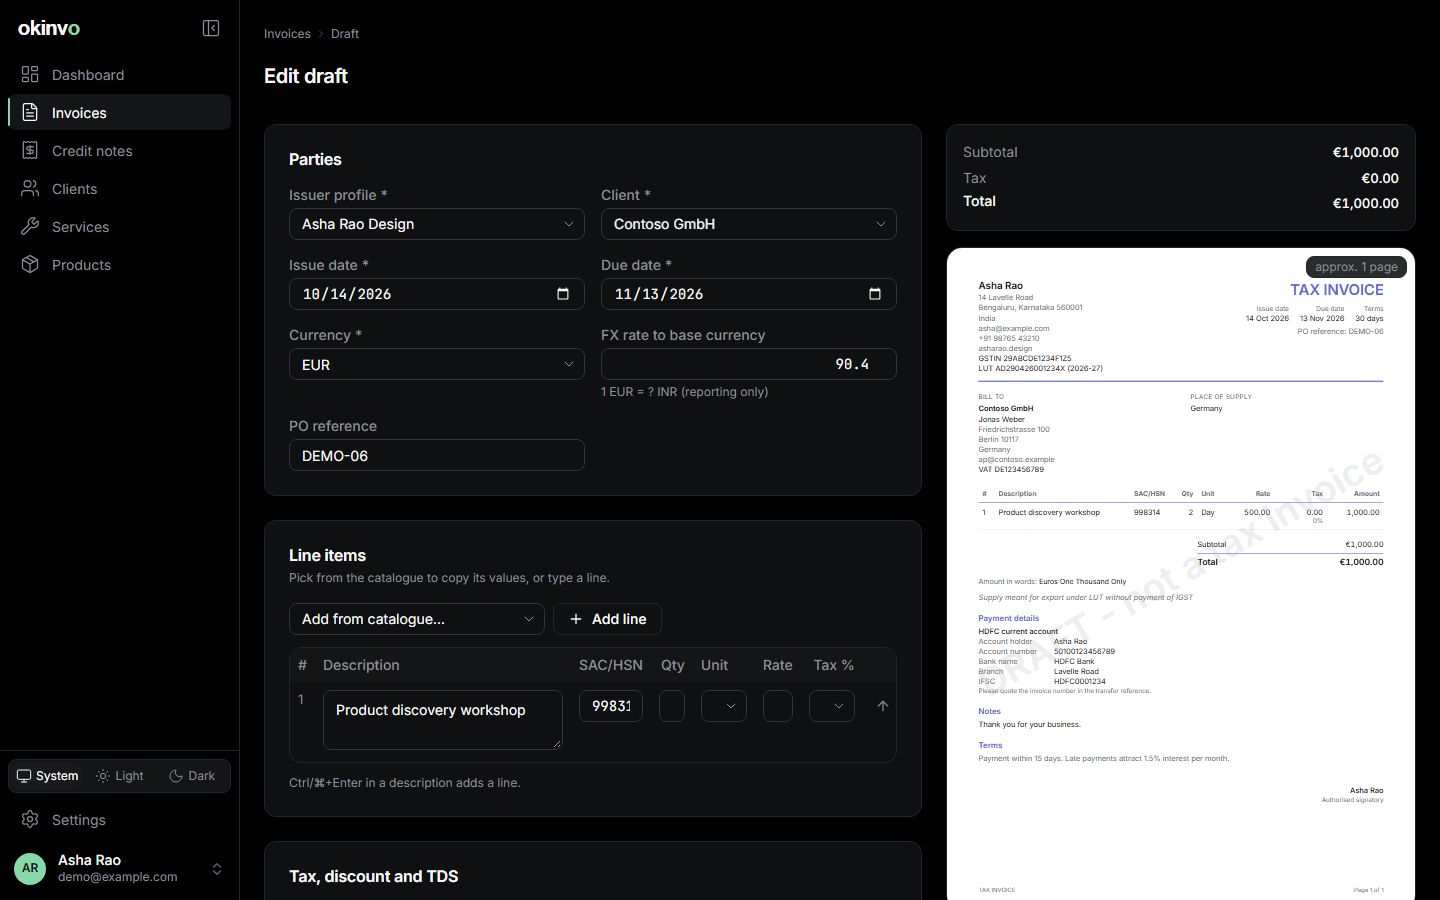
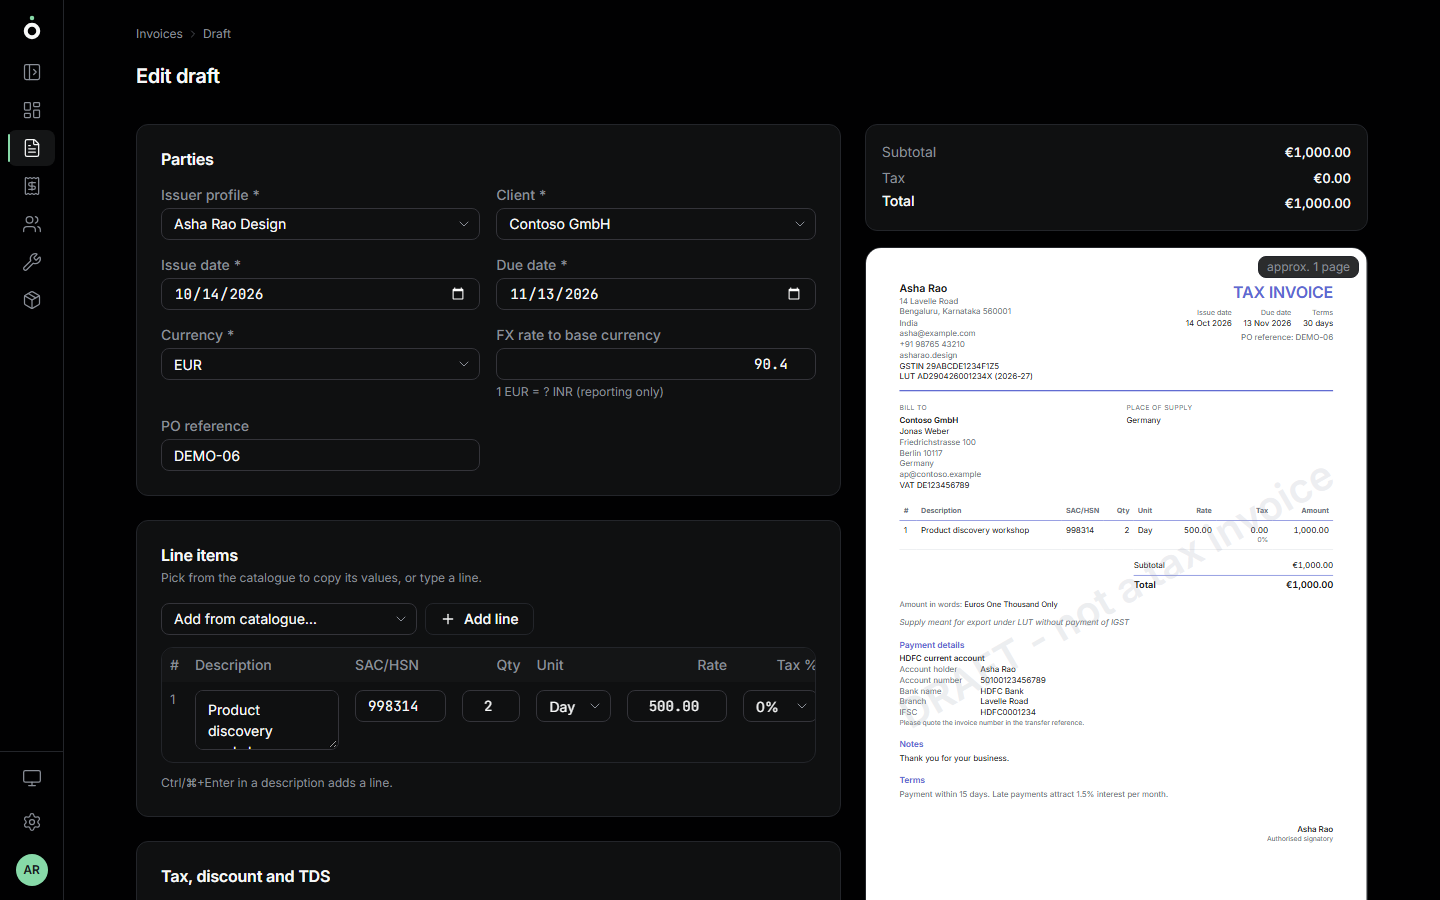
fix(builder): size the line-item columns so the table fits beside the preview
Fixed column widths that show a six-digit SAC code, a unit name, a rate and a tax rate in
full, with a 48rem table minimum; the docs screenshot of the builder is taken with the sidebar
collapsed, where the table fits at 1440 px without a scrollbar.

diff --git a/scripts/docs-screenshots.ts b/scripts/docs-screenshots.ts
@@ -78,6 +78,7 @@ async function newContext(
   browser: Browser,
   theme: Theme,
   mobile: boolean,
+  o: { sidebar?: "collapsed" } = {},
 ): Promise<BrowserContext> {
   const context = await browser.newContext({
     baseURL: ORIGIN,
@@ -92,6 +93,7 @@ async function newContext(
   await context.addCookies([
     { name: "okinvo.cookie-notice", value: "1", url: ORIGIN },
     { name: "okinvo.theme", value: theme, url: ORIGIN },
+    ...(o.sidebar ? [{ name: "okinvo.sidebar", value: o.sidebar, url: ORIGIN }] : []),
   ]);
   return context;
 }
@@ -132,10 +134,19 @@ async function desktop(browser: Browser, theme: Theme, ids: DemoIds): Promise<vo
     ["template-editor", `/settings/profiles/${ids.profileId}/template`],
   ];
   for (const [name, url] of simple) {
-    if (!wanted(name)) continue;
+    if (!wanted(name) || name === "builder") continue;
     await open(page, url);
-    if (name === "builder") await page.locator("[data-document-preview]").first().waitFor();
     await shoot(page, name, theme);
+  }
+  if (wanted("builder")) {
+    // shown with the sidebar collapsed: the line-item table then fits beside the preview
+    const narrow = await newContext(browser, theme, false, { sidebar: "collapsed" });
+    const editor = await narrow.newPage();
+    await signIn(editor, DEMO_EMAIL);
+    await open(editor, simple.find(([n]) => n === "builder")![1]);
+    await editor.locator("[data-document-preview]").first().waitFor();
+    await shoot(editor, "builder", theme);
+    await narrow.close();
   }
 
   if (wanted("share")) {

diff --git a/src/components/invoices/line-items-editor.tsx b/src/components/invoices/line-items-editor.tsx
@@ -159,7 +159,7 @@ export function LineItemsEditor({
       {/* Narrower than the columns need (a 1440 px laptop with the sidebar open), the table
           scrolls inside its card rather than squeezing the inputs to nothing. */}
       <div className="overflow-x-auto rounded-lg border border-hairline">
-        <table className="w-full min-w-[50rem] border-collapse text-app-table">
+        <table className="w-full min-w-[48rem] border-collapse text-app-table">
           <thead className="bg-surface-2 text-app-label text-ink-subtle">
             <tr>
               <th className="px-2 py-2 text-left font-medium">#</th>
@@ -227,7 +227,7 @@ export function LineItemsEditor({
                     onKeyDown={rowKeyDown(i)}
                   />
                 </td>
-                <td className="w-24 px-2 py-2">
+                <td className="w-20 px-2 py-2">
                   <Input
                     name={`items[${i}].quantity`}
                     aria-label={t("aria.quantity", { line: i + 1 })}
@@ -240,7 +240,7 @@ export function LineItemsEditor({
                     onKeyDown={rowKeyDown(i)}
                   />
                 </td>
-                <td className="w-28 px-2 py-2">
+                <td className="w-24 px-2 py-2">
                   <Select
                     name={`items[${i}].unitType`}
                     aria-label={t("aria.unit", { line: i + 1 })}

diff --git a/tests/e2e/builder-layout.spec.ts b/tests/e2e/builder-layout.spec.ts
@@ -18,6 +18,6 @@ test("the builder's line inputs stay usable at 1440 px", async ({ page }) => {
   const rate = page.getByLabel("Line 1 rate");
   await expect(qty).toBeVisible();
   const [qtyBox, rateBox] = await Promise.all([qty.boundingBox(), rate.boundingBox()]);
-  expect(qtyBox?.width ?? 0).toBeGreaterThanOrEqual(64);
+  expect(qtyBox?.width ?? 0).toBeGreaterThanOrEqual(56);
   expect(rateBox?.width ?? 0).toBeGreaterThanOrEqual(96);
 });
